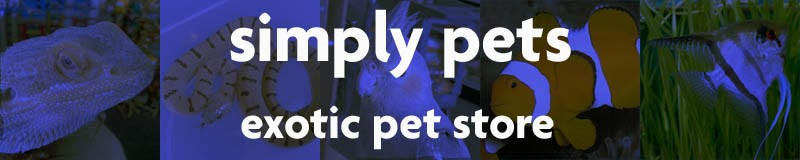
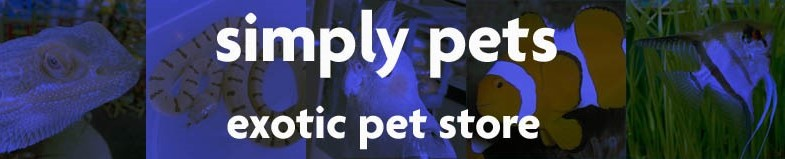
made jumbotron bg image responsive

diff --git a/assets/style.css b/assets/style.css
@@ -4,11 +4,15 @@
 
 }
 
+
 .main-jumbo {
     background-image: url("images/simply-pets-banner.jpg");
     background-size: cover;
     background-repeat: no-repeat;
+    background-position: center;
     height: 400px;
+    margin-right: 0;
+    
 }
 .secondHeader {
     text-align: center !important;
